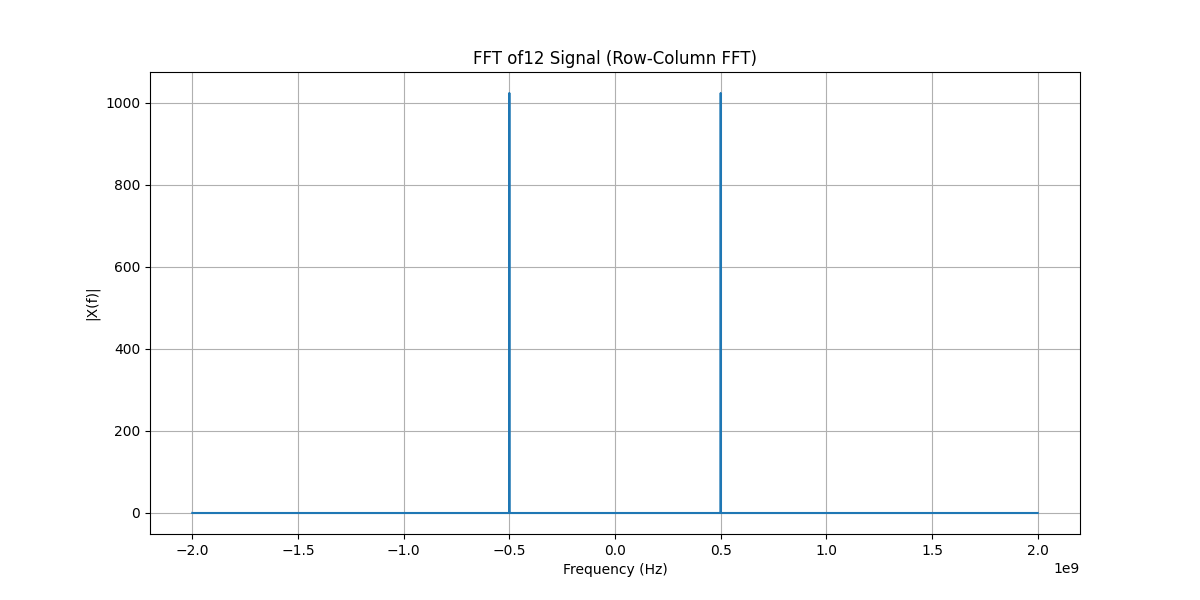
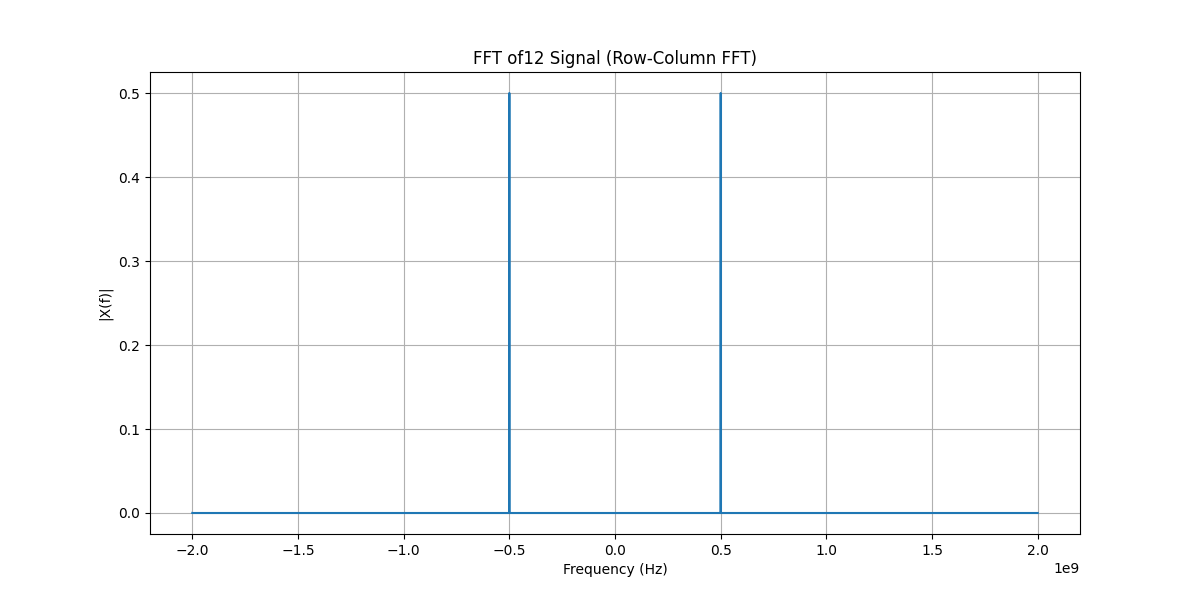
plt,close()

diff --git a/apsera_sim/main.py b/apsera_sim/main.py
@@ -51,7 +51,7 @@ y_fp_shift = np.fft.fftshift(y_fp)
 mags_fp_shift = np.abs(y_fp_shift)/(P*gain_fp)
 eps = 1e-12 # adding to avoid 0
 mags_db = 20*np.log10(mags_fp_shift/(np.max(mags_fp_shift)+eps))
-plt.figure(figsize=(12, 6))
+plt.figure(figsize=(12,6))
 plt.plot(freq_fp_shift, mags_db, label='full precision fft')
 
 #fft of 30 bit (adc_bit = 12 window_bit_precision = 18(arch of dsp_slice on red pitaya))
@@ -85,6 +85,7 @@ plt.legend()
 plt.tight_layout()
 plt.show()
 plt.savefig("fft_main_18-22b.png")
+plt.close()
 
 plt.figure(figsize=(12,6))
 for bit in n_bits:
@@ -98,6 +99,7 @@ plt.legend()
 plt.tight_layout()
 plt.show()
 plt.savefig("fft_error_8-16b.png") 
+plt.close()
 
 bit_vals = list(diff_mean.keys())
 mean_errors_db = list(diff_mean.values())
@@ -112,6 +114,7 @@ plt.legend()
 plt.tight_layout()
 plt.show()
 plt.savefig("fft_error_mean_8-16b.png") 
+plt.close()
 
 # from graph we can conclude 10 bit or 12 bit is sufficient truncation as error beyond 12 bit 
 # is not reducing by much

diff --git a/apsera_sim/main_adc.py b/apsera_sim/main_adc.py
@@ -55,7 +55,9 @@ digital_values = [adc(vin,n_bits,v_ref) for vin in adc_signal]
 
 no_offset_dig = digital_values - np.mean(digital_values)
 
-plt.step(adc_time*1e6, no_offset_dig, where ='post',marker='o')
+no_offset_dig = (no_offset_dig)/2**(n_bits-1)
+
+plt.step(adc_time*1e6, digital_values, where ='post',marker='o')
 plt.xlabel('time(us)')
 plt.ylabel('Digital Output (Decimal)')
 plt.title(f'{n_bits}-bit ADC Conversion')
@@ -68,7 +70,7 @@ freqs_n_bits,mags_n_bits = fft(M,N,P,no_offset_dig,adc_sampling_rate,gain=1)
 
 plt.figure(figsize=(12, 6))
 plt.plot(freqs_n_bits, mags_n_bits, label='n_bits Signal FFT')
-plt.title("FFT of" f'{n_bits} Signal (Row-Column FFT)')
+plt.title("FFT of " f'{n_bits} Signal (Row-Column FFT)')
 plt.xlabel("Frequency (Hz)")
 plt.ylabel("|X(f)|")
 plt.grid(True)
